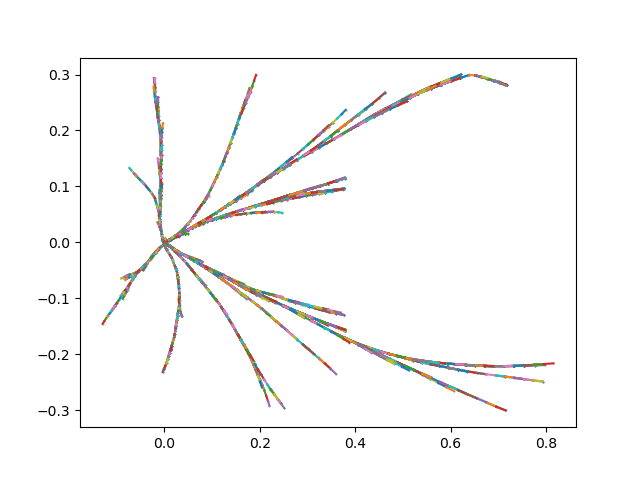
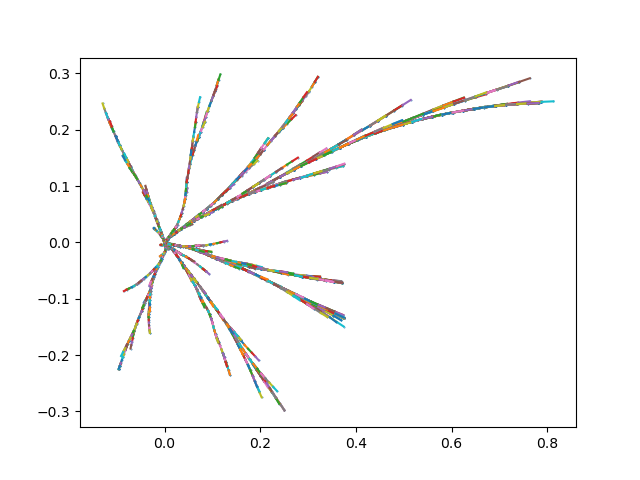
Per-step trajectories

diff --git a/planner/rrt_planner.py b/planner/rrt_planner.py
@@ -104,25 +104,43 @@ class RRTPlanner:
         )
         return plan
 
-    def execute_plan(self, plan):
+    def execute_plan(self, plan, per_step=False):
         data = mujoco.MjData(self.model)
         mujoco.mj_resetData(self.model, data)
         states = []
         actions = []
-        for node in plan:
+        if per_step:
+            # Log at per-physics-step granularity: states length = total_steps + 1, actions length = total_steps
+            # initial state
             pose = get_qpos_values(data, self.qpos_idx).copy()
             vel = get_qvel_values(data, self.qvel_idx).copy()
             states.append(np.concatenate([pose, vel]))
-            actions.append(np.asarray(node.control).copy())
-            for _ in range(self.steps_per_action):
-                set_ctrl_values(data, self.ctrl_idx, node.control)
-                mujoco.mj_step(self.model, data)
-        pose = get_qpos_values(data, self.qpos_idx).copy()
-        vel = get_qvel_values(data, self.qvel_idx).copy()
-        states.append(np.concatenate([pose, vel]))
-        return np.asarray(states), np.asarray(actions)
+            for node in plan:
+                for _ in range(self.steps_per_action):
+                    set_ctrl_values(data, self.ctrl_idx, node.control)
+                    mujoco.mj_step(self.model, data)
+                    # state after step; action used during this step
+                    pose = get_qpos_values(data, self.qpos_idx).copy()
+                    vel = get_qvel_values(data, self.qvel_idx).copy()
+                    states.append(np.concatenate([pose, vel]))
+                    actions.append(np.asarray(node.control).copy())
+            return np.asarray(states), np.asarray(actions)
+        else:
+            # Original behavior: one action per plan node (applied for steps_per_action steps)
+            for node in plan:
+                pose = get_qpos_values(data, self.qpos_idx).copy()
+                vel = get_qvel_values(data, self.qvel_idx).copy()
+                states.append(np.concatenate([pose, vel])) # s_t
+                actions.append(np.asarray(node.control).copy()) # a_t
+                for _ in range(self.steps_per_action):
+                    set_ctrl_values(data, self.ctrl_idx, node.control)
+                    mujoco.mj_step(self.model, data)
+            pose = get_qpos_values(data, self.qpos_idx).copy()
+            vel = get_qvel_values(data, self.qvel_idx).copy()
+            states.append(np.concatenate([pose, vel]))
+            return np.asarray(states), np.asarray(actions)
 
-    def collect(self, num_trajectories, seed=None, randomize_start=False, start_sampler=None, goal_fn=None, min_plan_len=1, progress_every=10, show_progress=True):
+    def collect(self, num_trajectories, seed=None, randomize_start=False, start_sampler=None, goal_fn=None, min_plan_len=1, progress_every=10, show_progress=True, per_step=False):
         if goal_fn is None:
             goal_fn = in_goal
         rng = np.random.default_rng(seed)
@@ -146,7 +164,7 @@ class RRTPlanner:
                 plot_tree=False
             )
             if len(plan) >= min_plan_len:
-                states, actions = self.execute_plan(plan)
+                states, actions = self.execute_plan(plan, per_step=per_step)
                 trajectories.append({"states": states, "actions": actions})
                 successes += 1
                 if pbar is not None:
@@ -165,5 +183,7 @@ if __name__ == "__main__":
     planner = RRTPlanner(xml_path=XML_PATH, steps_per_action=5, time_limit_seconds=30.0)
     plan = planner.plan_once(seed=42)
     print("Plan length:", len(plan))
-    trajs = planner.collect(num_trajectories=50, seed=123, randomize_start=True, min_plan_len=1, progress_every=1, show_progress=True)
-    print("Collected trajectories:", len(trajs))
+    plan_batch = planner.collect(num_trajectories=3, seed=123, randomize_start=True, min_plan_len=1, progress_every=1, show_progress=True,
+        per_step=True
+    )
+    print("Collected trajectories:", len(plan_batch))

diff --git a/planner/rrt_multi.py b/planner/rrt_multi.py
@@ -34,6 +34,7 @@ def _collect_worker(
     kdtree_rebuild_every=64,
     randomize_start=True,
     min_plan_len=1,
+    per_step=False,
 ):
     _limit_blas_threads()
     import numpy as np  # delayed import in worker
@@ -56,6 +57,7 @@ def _collect_worker(
         min_plan_len=min_plan_len,
         progress_every=None,
         show_progress=False,
+        per_step=per_step,
     )
 
 
@@ -70,6 +72,7 @@ def collect_parallel_chunks(
     kdtree_rebuild_every=64,
     randomize_start=True,
     min_plan_len=1,
+    per_step=False,
     verbose=True,
 ):
     if total_trajectories <= 0:
@@ -107,6 +110,7 @@ def collect_parallel_chunks(
                     kdtree_rebuild_every,
                     randomize_start,
                     min_plan_len,
+                    per_step,
                 )
             )
 
@@ -140,6 +144,7 @@ if __name__ == "__main__":
         randomize_start=True,
         min_plan_len=1,
         verbose=True,
+        per_step=True,
     )
     print("Total trajectories:", len(trajs))
 
